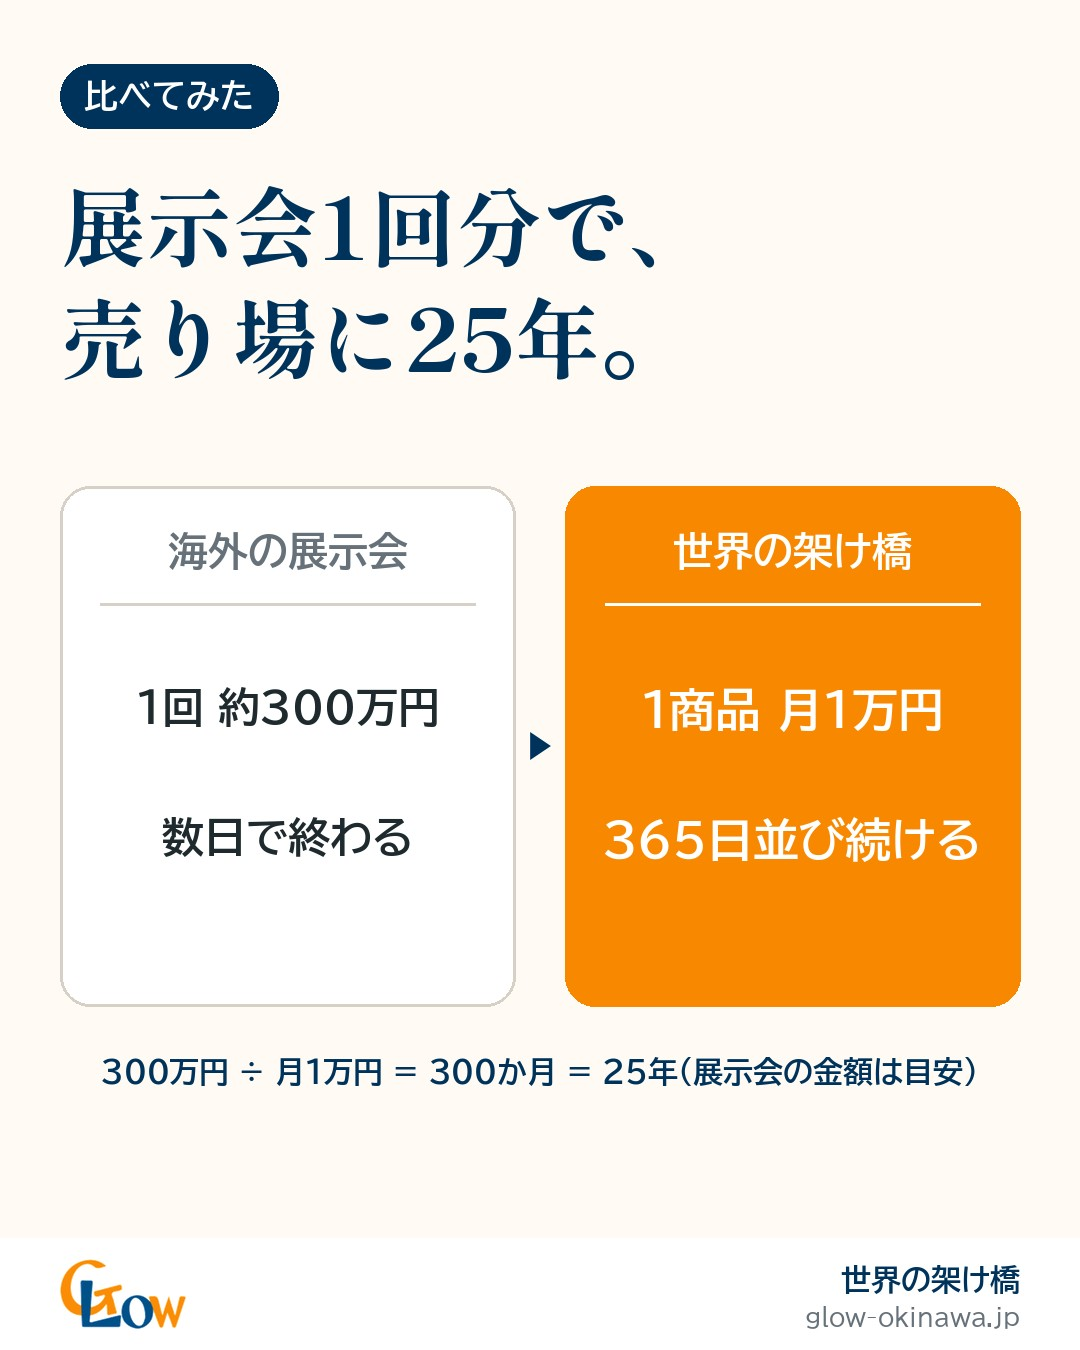
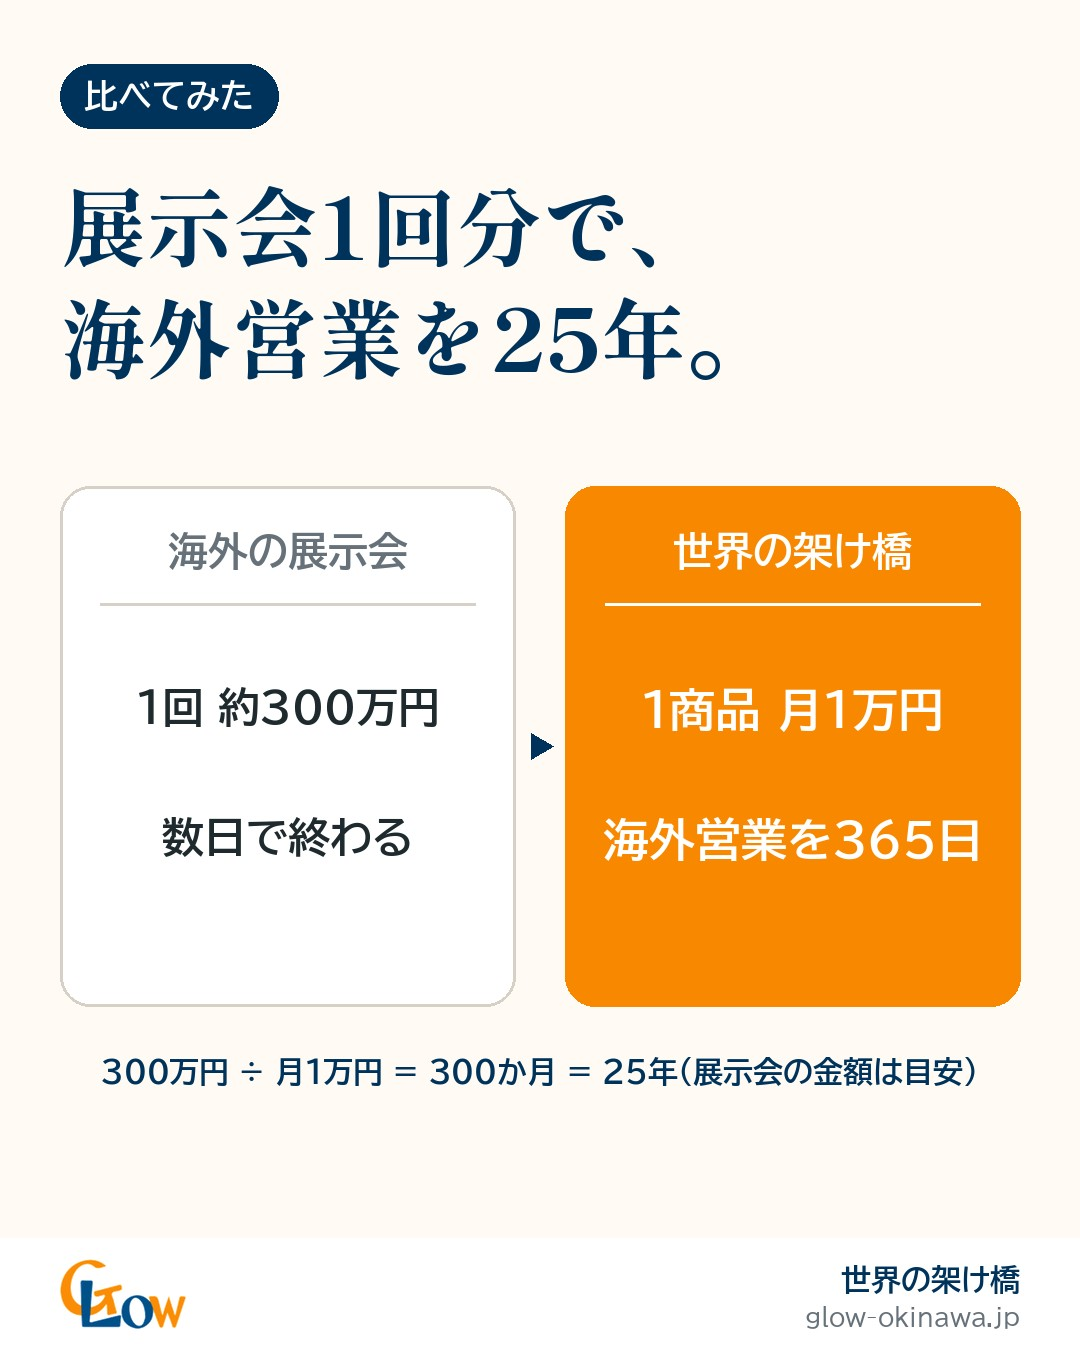
世界の架け橋SNS: JCコネクト様のご要望に合わせ表記を修正(月1万円は海外営業代行費、代金はGLOWが受け取り手数料を差し引いて支払い)。比べてみたの三角を図形で描く
Claude-Session: https://claude.ai/code/session_016UFDXVuYFtAtTGYqmXNcP3

Changed region(s): [[0.0611, 0.2178, 0.6722, 0.28], [0.55, 0.5911, 0.9167, 0.6533]]

diff --git a/scripts/glow_sns_build.py b/scripts/glow_sns_build.py
@@ -72,11 +72,11 @@ POSTS = [
     {"id": "en-andagi", "kind": "word", "img": "andagi", "ja": "サーターアンダギー", "en": "Sata Andagi",
      "line": "Okinawan fried dough balls,\ncrispy outside and soft inside.",
      "cap": "英語で言うと?\n\nサーターアンダギー → Sata Andagi\n\n名前はそのままでも大丈夫。大事なのは、どんな物かを英語で一文そえることです。\n\n例: Okinawan fried dough balls, crispy outside and soft inside.\n(外はカリッと、中はふんわりした沖縄の揚げ菓子)\n\n世界の買い手は、写真と英語の一文で「どんな味か」を想像します。\n\n" + AI_NOTE},
-    {"id": "cmp-expo", "kind": "compare", "head": "展示会1回分で、\n売り場に25年。",
+    {"id": "cmp-expo", "kind": "compare", "head": "展示会1回分で、\n海外営業を25年。",
      "left": ("海外の展示会", ["1回 約300万円", "数日で終わる"]),
-     "right": ("世界の架け橋", ["1商品 月1万円", "365日並び続ける"]),
+     "right": ("世界の架け橋", ["1商品 月1万円", "海外営業を365日"]),
      "foot": "300万円 ÷ 月1万円 = 300か月 = 25年(展示会の金額は目安)",
-     "cap": "比べてみた: 海外の展示会 vs 世界の架け橋\n\n海外の展示会は、出展料・装飾・輸送を合わせて1回約300万円が目安(条件によって変わります)。しかも数日で終わります。\n\n世界の架け橋の売り場は、1商品 月1万円。\n300万円あれば、計算上は1つの商品を25年間並べ続けられます。\n\n※売れたときは販売価格の25%、国内の倉庫までの送料がかかります。売れなかった月も月1万円はかかります。"},
+     "cap": "比べてみた: 海外の展示会 vs 世界の架け橋\n\n海外の展示会は、出展料・装飾・輸送を合わせて1回約300万円が目安(条件によって変わります)。しかも数日で終わります。\n\n世界の架け橋の海外営業代行費(翻訳・商談対応など)は、1商品 月1万円。\n300万円あれば、計算上は1つの商品の海外営業を25年間任せられます。\n\n※売れたときは販売価格の25%、国内の倉庫までの送料がかかります。売れなかった月も海外営業代行費の月1万円はかかります。"},
     {"id": "ng-name", "kind": "ngok", "head": "商品名、\n日本語だけになって\nいませんか?",
      "ng": "「黒糖」「もずく」と\n日本語の名前だけ", "ok": "英語の名前 +\nどんな物かを英語で一文",
      "cap": "やりがちNG→OK\n\nNG: 商品名が日本語だけ\nOK: 英語の名前に、どんな物かを英語で一文そえる\n\n世界の買い手は、日本語が読めません。名前だけでは、食べ物なのか、どう使うのかが伝わらないことも。\n\n英語の名前と説明づくりは、GLOWがいっしょに進めます。\n\n" + SAVE},
@@ -87,7 +87,7 @@ POSTS = [
      "big": "50数か国", "head": "人口約12万人の町の\nお茶屋さんが、\n世界と取引。",
      "body": "愛媛県新居浜市の香月園。\nAlibaba.comに出店して2年2か月で、\n50数か国と取引するように。",
      "src": "出典: アリババ株式会社 お客様事例",
-     "cap": "世界で通用した話\n\n愛媛県新居浜市(人口約12万人)のお茶屋さん・香月園は、Alibaba.comに出店してから2年2か月で、50数か国と取引するようになりました。\n\n大きな会社でなくても、世界と取引できる時代です。\n\n出典: アリババ株式会社 お客様事例"},
+     "cap": "世界で通用した話\n\n愛媛県新居浜市(人口約12万人)のお茶屋さん・香月園は、Alibaba.comに出店してから2年2か月で、50数か国と取引するようになりました。\n\n地方の会社でも、世界と取引できる時代です。\n\n出典: アリババ株式会社 お客様事例"},
     {"id": "en-umibudo", "kind": "word", "img": "umibudo", "ja": "海ぶどう", "en": "Sea Grapes",
      "line": "A seaweed with tiny beads\nthat pop in your mouth.",
      "cap": "英語で言うと?\n\n海ぶどう → Sea Grapes\n\n例: A seaweed with tiny beads that pop in your mouth.\n(口の中でプチプチはじける、小さな粒の海藻)\n\n食感を英語で伝えると、食べたことのない人にも魅力が伝わります。\n\n" + AI_NOTE},
@@ -167,9 +167,9 @@ POSTS = [
      "cap": "海外販路クイズ\n\nQ. Alibaba.comを使う企業がいる国と地域は?\nA. 50 / B. 100 / C. 200以上\n\n.\n.\n.\n正解は C. 200以上 です。\n\n沖縄にいながら、まだ出会ったことのない国の会社に、商品を見てもらえる場所です。\n\n出典: アリババ株式会社 公式サイト"},
     {"id": "cmp-pay", "kind": "compare", "head": "代金の心配、\n仕組みで小さく。",
      "left": ("知らない相手と", ["送ったのに", "入金されない…"]),
-     "right": ("Alibaba.comなら", ["代金を", "いったん預かる"]),
-     "foot": "代金をAlibaba.comがいったん預かってから支払う仕組みがあります。",
-     "cap": "比べてみた: 知らない相手と直接 vs Alibaba.comの仕組み\n\n知らない国の、知らない相手に商品を送るのは怖いもの。「送ったのに入金されない」という心配があります。\n\nAlibaba.comには、買い手の代金をいったん預かってから支払う仕組みがあります。"},
+     "right": ("世界の架け橋なら", ["代金は", "GLOWから"]),
+     "foot": "代金はGLOWが受け取り、手数料を引いてお支払いします。",
+     "cap": "比べてみた: 知らない相手と直接 vs 世界の架け橋\n\n知らない国の、知らない相手に商品を送るのは怖いもの。「送ったのに入金されない」という心配があります。\n\n世界の架け橋では、海外バイヤーからの代金はGLOWが受け取り、手数料を差し引いてお支払いします。知らない相手とのお金のやり取りを、あなたが直接することはありません。"},
     {"id": "en-awamori", "kind": "word", "img": "awamori", "ja": "泡盛", "en": "Okinawa Awamori",
      "line": "A traditional spirit\ndistilled in Okinawa from rice.",
      "cap": "英語で言うと?\n\n泡盛 → Okinawa Awamori\n\n例: A traditional spirit distilled in Okinawa from rice.\n(お米からつくる、沖縄の伝統的な蒸留酒)\n\n沖縄にしかないお酒だからこそ、名前の前に「Okinawa」をつけて、どこで生まれたかを伝えます。\n\n※お酒の輸出は、国ごとのルールの確認が必要です。くわしくはご相談ください。\n" + AI_NOTE},
@@ -309,7 +309,8 @@ def r_compare(p, who):
         for it in items:
             lines_at(d, x + cw / 2, yy, [it], F("gb", 46 if good else 42), WHITE if good else INK, 60, who, cw - 30, "ma")
             yy += 130
-    d.text((W / 2, (top + bot) / 2), "▶", font=F("gb", 50), fill=NAVY, anchor="mm")
+    cx, cy = W / 2, (top + bot) / 2  # 三角は図形で描く(書体に「▶」が無い環境で□になるため。2026-11-16)
+    d.polygon([(cx - 9, cy - 13), (cx - 9, cy + 13), (cx + 13, cy)], fill=NAVY)
     lines_at(d, W / 2, bot + 50, [p["foot"]], F("gb", 30), NAVY, 40, who, W - 100, "ma")
     footer(img, d)
     return img

diff --git a/posts/glow/cmp-expo.md b/posts/glow/cmp-expo.md
@@ -5,10 +5,10 @@
 
 海外の展示会は、出展料・装飾・輸送を合わせて1回約300万円が目安(条件によって変わります)。しかも数日で終わります。
 
-世界の架け橋の売り場は、1商品 月1万円。
-300万円あれば、計算上は1つの商品を25年間並べ続けられます。
+世界の架け橋の海外営業代行費(翻訳・商談対応など)は、1商品 月1万円。
+300万円あれば、計算上は1つの商品の海外営業を25年間任せられます。
 
-※売れたときは販売価格の25%、国内の倉庫までの送料がかかります。売れなかった月も月1万円はかかります。
+※売れたときは販売価格の25%、国内の倉庫までの送料がかかります。売れなかった月も海外営業代行費の月1万円はかかります。
 
 ▶ くわしく(世界の架け橋のサイト)
 https://glow-okinawa.jp/?utm_source=facebook&utm_medium=social&utm_campaign=glow_sns
@@ -19,5 +19,5 @@ https://allgroup-inc.github.io/hojo-hq/go/glow-fb/
 
 ## 出荷ゲート
 - gates: accuracy-check, deadline-alert, humanizer
-- checked: 2026-10-16
+- checked: 2026-11-17
 - by: Claude(glow_sns_build・提案資料の照合済み数字のみ使用)

diff --git a/posts/glow/cmp-pay.md b/posts/glow/cmp-pay.md
@@ -1,11 +1,11 @@
 # GLOW SNS投稿: cmp-pay
 
 ## キャプション
-比べてみた: 知らない相手と直接 vs Alibaba.comの仕組み
+比べてみた: 知らない相手と直接 vs 世界の架け橋
 
 知らない国の、知らない相手に商品を送るのは怖いもの。「送ったのに入金されない」という心配があります。
 
-Alibaba.comには、買い手の代金をいったん預かってから支払う仕組みがあります。
+世界の架け橋では、海外バイヤーからの代金はGLOWが受け取り、手数料を差し引いてお支払いします。知らない相手とのお金のやり取りを、あなたが直接することはありません。
 
 ▶ くわしく(世界の架け橋のサイト)
 https://glow-okinawa.jp/?utm_source=facebook&utm_medium=social&utm_campaign=glow_sns
@@ -16,5 +16,5 @@ https://allgroup-inc.github.io/hojo-hq/go/glow-fb/
 
 ## 出荷ゲート
 - gates: accuracy-check, deadline-alert, humanizer
-- checked: 2026-10-06
+- checked: 2026-11-17
 - by: Claude(glow_sns_build・提案資料の照合済み数字のみ使用)

diff --git a/posts/glow/story-kagetsuen.md b/posts/glow/story-kagetsuen.md
@@ -5,7 +5,7 @@
 
 愛媛県新居浜市(人口約12万人)のお茶屋さん・香月園は、Alibaba.comに出店してから2年2か月で、50数か国と取引するようになりました。
 
-大きな会社でなくても、世界と取引できる時代です。
+地方の会社でも、世界と取引できる時代です。
 
 出典: アリババ株式会社 お客様事例
 
@@ -18,5 +18,5 @@ https://allgroup-inc.github.io/hojo-hq/go/glow-fb/
 
 ## 出荷ゲート
 - gates: accuracy-check, deadline-alert, humanizer
-- checked: 2026-10-06
+- checked: 2026-11-17
 - by: Claude(glow_sns_build・提案資料の照合済み数字のみ使用)
